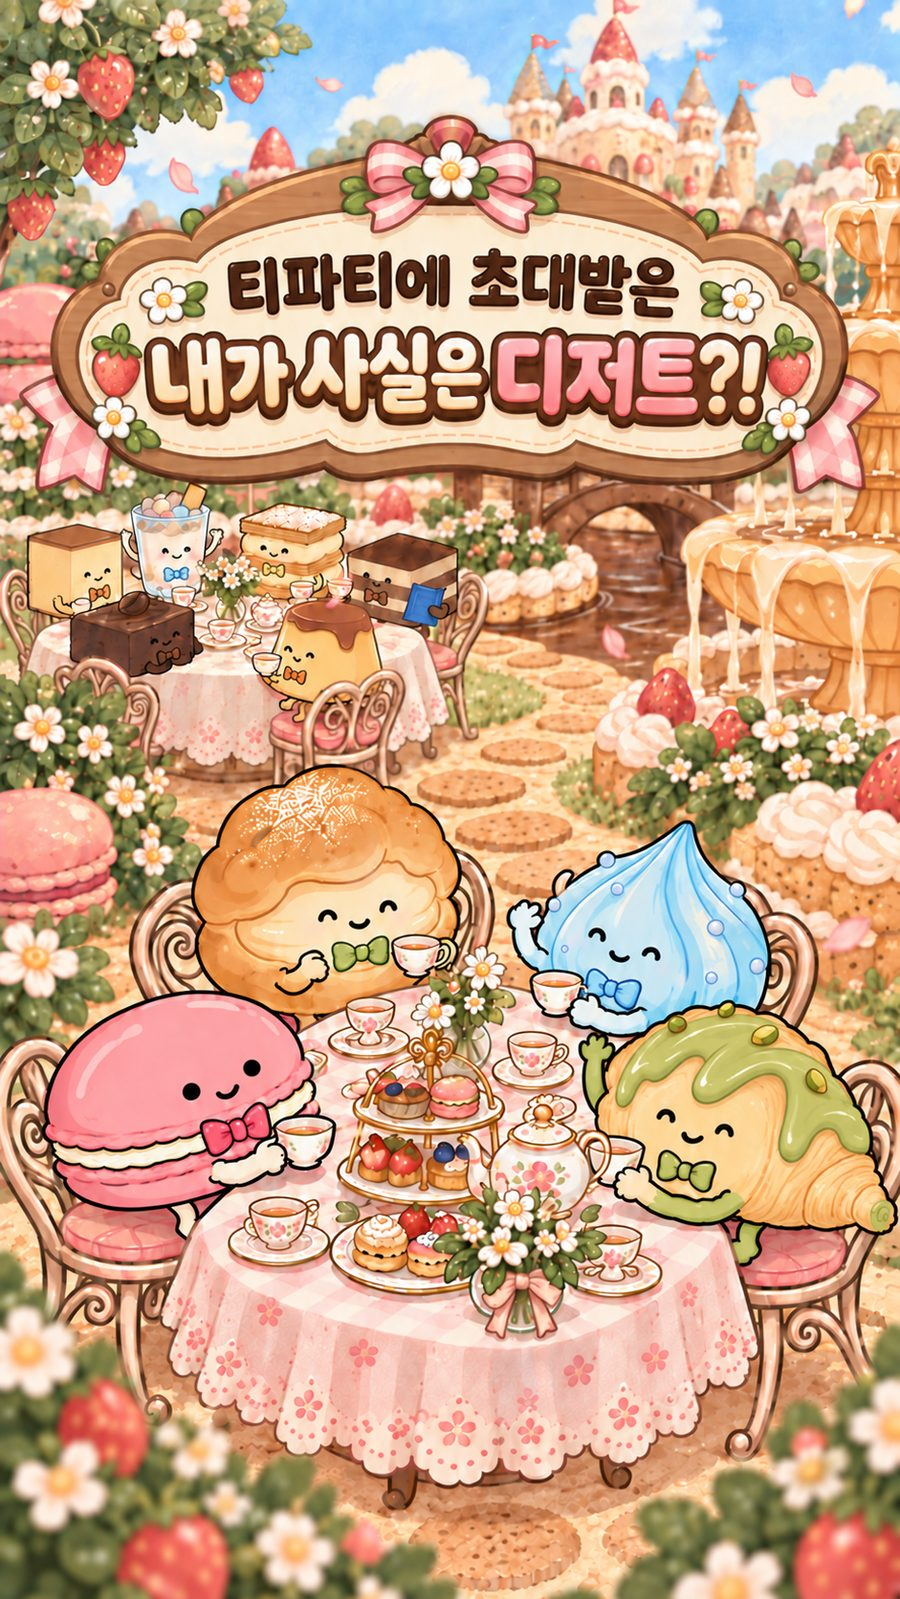
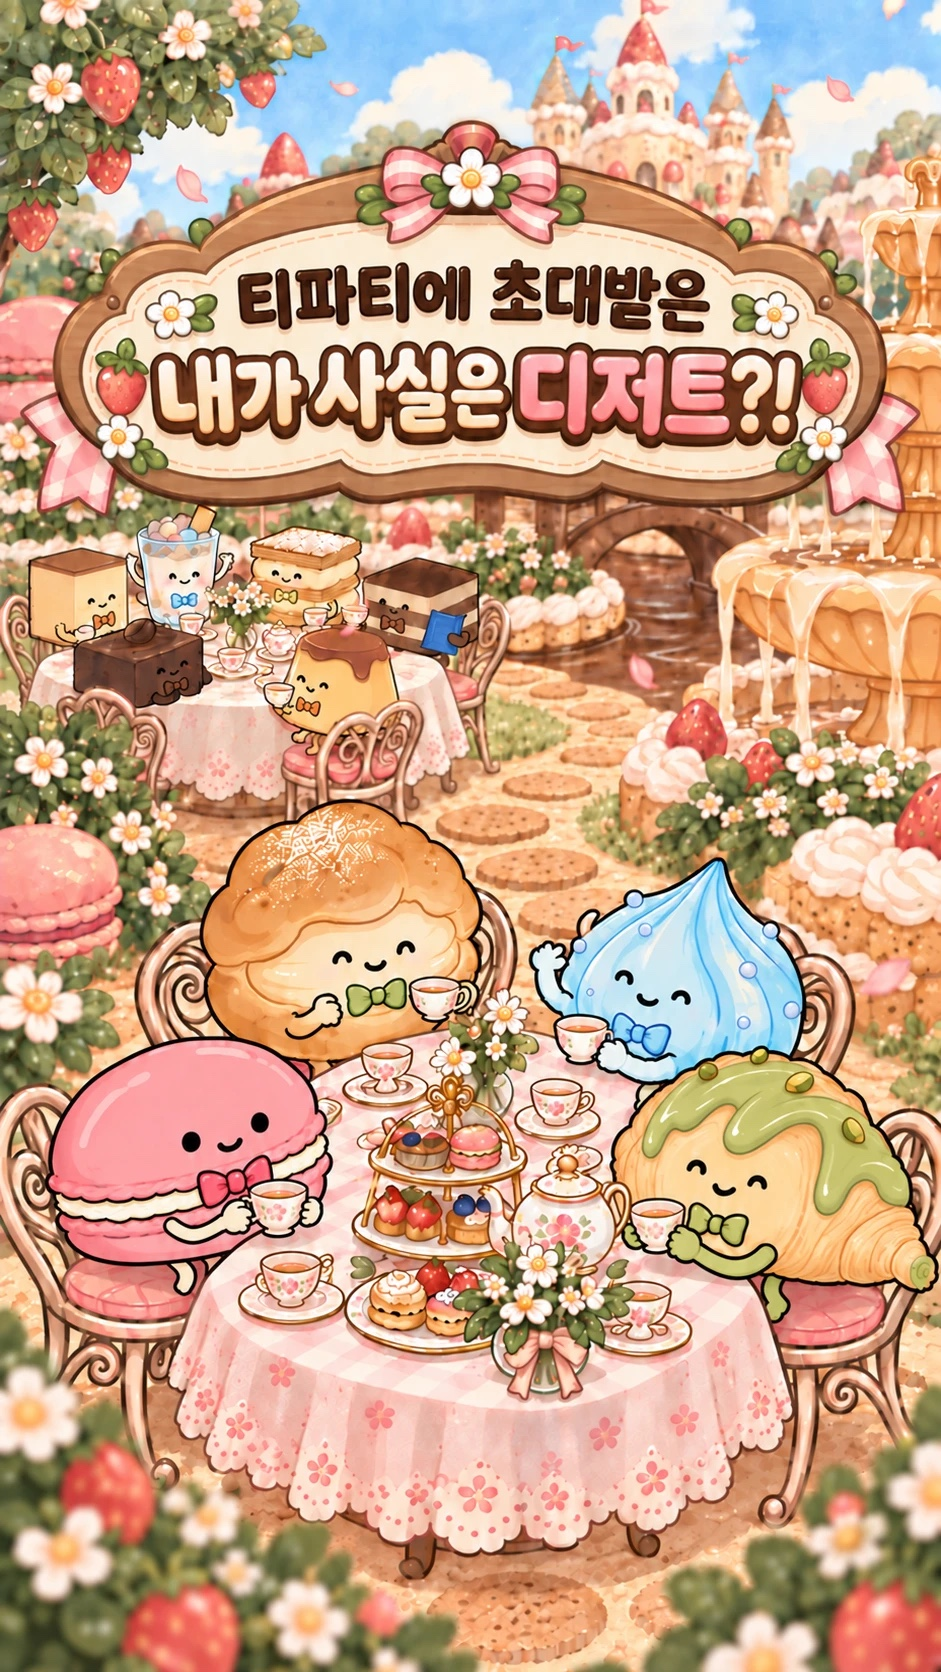
feat: 메인 이미지 교체, 테스트 미응시 로그인 안내 팝업, 문항 뒤로가기, 모바일 세로중앙 정렬, 약관 새창, 푸터 연락처 추가

diff --git a/app/login/page.tsx b/app/login/page.tsx
@@ -18,12 +18,13 @@ export const dynamic = "force-dynamic";
 //    서버에 저장돼 있던 가장 최근 결과를 불러와 이어서 보여줍니다.
 export default function LoginPage() {
   const router = useRouter();
-  const { result, userName, userGender, setProfile, setResult, setSavedResultId, pendingAfterSignup, setPendingAfterSignup } =
+  const { result, userName, userGender, setProfile, setResult, setSavedResultId, pendingAfterSignup, setPendingAfterSignup, reset } =
     useQuiz();
   const [contact, setContact] = useState("");
   const [password, setPassword] = useState("");
   const [toast, setToast] = useState("");
   const [busy, setBusy] = useState(false);
+  const [showNoResultModal, setShowNoResultModal] = useState(false);
 
   useEffect(() => {
     router.prefetch("/result");
@@ -142,8 +143,7 @@ export default function LoginPage() {
         if (outcome === "loaded") {
           router.push("/result");
         } else if (outcome === "none") {
-          setToast("아직 저장된 결과가 없어요. 테스트를 먼저 진행해주세요.");
-          setTimeout(() => router.push("/"), 1400);
+          setShowNoResultModal(true);
         } else {
           setToast("결과를 불러오지 못했어요. 잠시 후 다시 시도해주세요.");
         }
@@ -210,6 +210,50 @@ export default function LoginPage() {
       </button>
 
       {toast && <div className="toast">{toast}</div>}
+
+      {showNoResultModal && (
+        <div className="confirm-overlay">
+          <div className="confirm-box" style={{ position: "relative" }}>
+            <button
+              type="button"
+              className="secondary"
+              aria-label="닫기"
+              onClick={() => setShowNoResultModal(false)}
+              style={{
+                position: "absolute",
+                top: 10,
+                right: 10,
+                width: 28,
+                height: 28,
+                padding: 0,
+                borderRadius: "50%",
+                border: "none",
+                background: "transparent",
+                fontSize: 16,
+                lineHeight: 1,
+                color: "var(--text3)",
+              }}
+            >
+              ✕
+            </button>
+            <p className="confirm-msg">테스트를 보셔야 마이페이지로 갈 수 있어요. 먼저 테스트를 보고 와주세요. 5분밖에 안 걸려요!</p>
+            <div className="confirm-actions">
+              <button className="secondary" onClick={() => setShowNoResultModal(false)}>
+                다음에 할래요
+              </button>
+              <button
+                onClick={() => {
+                  setShowNoResultModal(false);
+                  reset();
+                  router.push("/start");
+                }}
+              >
+                테스트 하러 가기
+              </button>
+            </div>
+          </div>
+        </div>
+      )}
     </div>
   );
 }

diff --git a/app/layout.tsx b/app/layout.tsx
@@ -27,12 +27,13 @@ export default function RootLayout({ children }: Readonly<{ children: React.Reac
                 by 쏠 웰니스 하우스
               </a>
               <p className="tiny" style={{ margin: "6px 0 0" }}>
-                <a href="/legal#privacy">개인정보처리방침</a> · <a href="/legal#terms">이용약관</a>
+                <a href="/legal#privacy" target="_blank" rel="noopener noreferrer">개인정보처리방침</a> ·{" "}
+                <a href="/legal#terms" target="_blank" rel="noopener noreferrer">이용약관</a>
               </p>
               <p className="tiny" style={{ margin: "4px 0 0" }}>
                 쏠 웰니스 하우스 · 대표 김준석 · 사업자등록번호 572-07-03549
                 <br />
-                서울시 마포구 독막로 100 4층 408호 · 연락처 010-2835-2263
+                서울시 마포구 독막로 100 4층 408호 · 연락처 010-2835-2263 · contact@ssolwellness.com
               </p>
             </div>
           </div>

diff --git a/app/page.tsx b/app/page.tsx
@@ -22,8 +22,8 @@ export default function IntroPage() {
       <Image
         src="/images/hero/hero-intro.jpg"
         alt="티파티에 초대받은 내가 사실은 디저트?!"
-        width={900}
-        height={1599}
+        width={941}
+        height={1672}
         priority
         style={{ width: "100%", height: "auto", display: "block" }}
       />
@@ -38,7 +38,10 @@ export default function IntroPage() {
             "linear-gradient(to top, rgba(255,247,236,1) 0%, rgba(255,247,236,0.95) 45%, rgba(255,247,236,0) 100%)",
         }}
       >
-        <p className="tiny social-proof" style={{ margin: "0 0 12px", textAlign: "center", color: "#fff" }}>
+        <p
+          className="tiny social-proof"
+          style={{ margin: "0 0 12px", textAlign: "center", color: "#fff", textShadow: "0 1px 6px rgba(0,0,0,0.55), 0 0 2px rgba(0,0,0,0.4)" }}
+        >
           🍰 벌써 1,524명이 참여했어요
         </p>
         <button

diff --git a/app/quiz/page.tsx b/app/quiz/page.tsx
@@ -54,11 +54,29 @@ export default function Part1Page() {
 
   const progress = Math.round((current / PART1_ORDER.length) * 100);
 
+  const goBack = () => {
+    if (current === 0) return;
+    if (timer.current) {
+      clearTimeout(timer.current);
+      timer.current = null;
+    }
+    setCurrent(current - 1);
+  };
+
   return (
     <div className="card">
       <div className="progress-wrap">
         <div className="progress-bar" style={{ width: `${progress}%` }} />
       </div>
+      {current > 0 && (
+        <button
+          className="secondary"
+          style={{ width: "auto", padding: "6px 12px", fontSize: 13, marginBottom: 10 }}
+          onClick={goBack}
+        >
+          ← 이전 질문
+        </button>
+      )}
       <div className="q-index">
         1부 · 질문 {current + 1} / {PART1_ORDER.length}
         {title ? ` · ${userName} ${title}님은` : ""}

diff --git a/app/quiz/part2/page.tsx b/app/quiz/part2/page.tsx
@@ -75,11 +75,29 @@ export default function Part2Page() {
 
   const progress = Math.round((current / PART2_ORDER.length) * 100);
 
+  const goBack = () => {
+    if (current === 0) return;
+    if (timer.current) {
+      clearTimeout(timer.current);
+      timer.current = null;
+    }
+    setCurrent(current - 1);
+  };
+
   return (
     <div className="card">
       <div className="progress-wrap">
         <div className="progress-bar" style={{ width: `${progress}%` }} />
       </div>
+      {current > 0 && (
+        <button
+          className="secondary"
+          style={{ width: "auto", padding: "6px 12px", fontSize: 13, marginBottom: 10 }}
+          onClick={goBack}
+        >
+          ← 이전 질문
+        </button>
+      )}
       <div className="q-index">
         2부 · 질문 {current + 1} / {PART2_ORDER.length}
       </div>

diff --git a/app/globals.css b/app/globals.css
@@ -51,6 +51,8 @@ body {
      사이트 전체에서 단어(공백) 경계에서만 줄을 바꾸도록 설정합니다. */
   word-break: keep-all;
   display: flex;
+  flex-direction: column;
+  align-items: center;
   justify-content: center;
   padding: 32px 16px;
 }
